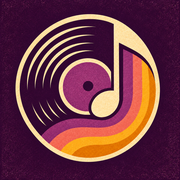
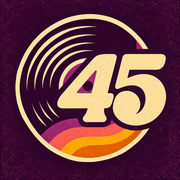
Add files via upload

diff --git a/app.js b/app.js
@@ -1,4 +1,4 @@
-// MyMusic Alpha 1.9.21 — pop-out fixes: reliable sizing while the window opens, and the player always returns to the page when the pop-out closes.
+// Hi-Fi45 Alpha 1.9.24 — Libraries: save several Drive folders, switch between them, share links (?lib=<folder id>).
 const CONFIG={CLIENT_ID:"249160747385-th1vq4sp43pjk40vle5jrnojd965morb.apps.googleusercontent.com",ROOT_FOLDER_ID:"1cdOpz-ziw1JcrtHaQupqnDMRZzviUiCJ"};
 const SUPPORTED=new Set(["mp3","wav","m4a","aac","flac","mp4"]);
 let pipWin=null,pipPlayer=null,pipModalHome=null,pipDesignH=768;
@@ -57,13 +57,85 @@ function showResumePrompt(trackId){pendingResumeTrackId=trackId;if($("resumeProm
 function hideResumePrompt(){pendingResumeTrackId=null;if($("resumePrompt"))$("resumePrompt").hidden=true}
 function showConnectScreen(message="Connect Google Drive to load your music"){const hasLib=tracks.length>0;$("welcome").hidden=hasLib;$("library").hidden=!hasLib;let a=false;try{a=localStorage.getItem("mymusic_drive_authorized")==="yes"}catch{}$("connectBtn").textContent=a?"Reconnect Drive":"Connect Drive";setStatus(message)}
 // ---- Auth: token persisted until expiry, library cached, one-tap reconnect ----
-const TOKEN_KEY="mymusic_token_v1",LIB_KEY="mymusic_library_v1",AUTH_KEY="mymusic_drive_authorized";
+// ---- Libraries: several Drive folders, each with its own cached song list ----
+const LIBS_KEY="hifi45_libraries_v1",CUR_LIB_KEY="hifi45_current_library";
+let libraries=[],currentLibId=null,sharedLibArrived=false;
+function saveLibraries(){try{localStorage.setItem(LIBS_KEY,JSON.stringify(libraries));localStorage.setItem(CUR_LIB_KEY,currentLibId||"")}catch{}}
+function curLib(){return libraries.find(l=>l.id===currentLibId)||libraries[0]}
+function ROOT(){return curLib().id}
+function isDefaultLib(){return ROOT()===CONFIG.ROOT_FOLDER_ID}
+function libCacheKey(id){return id===CONFIG.ROOT_FOLDER_ID?"mymusic_library_v1":"hifi45_library_"+id}
+function parseFolderId(text){const t=String(text||"").trim();let m=t.match(/\/folders\/([-\w]{10,})/)||t.match(/[?&](?:id|lib)=([-\w]{10,})/);if(m)return m[1];if(/^[-\w]{10,}$/.test(t))return t;return null}
+function shareUrl(id){return location.origin+location.pathname+"?lib="+encodeURIComponent(id)}
+(function loadLibraries(){
+  try{libraries=(JSON.parse(localStorage.getItem(LIBS_KEY)||"[]")||[]).filter(l=>l&&l.id)}catch{libraries=[]}
+  try{currentLibId=localStorage.getItem(CUR_LIB_KEY)||null}catch{}
+  const shared=parseFolderId(new URLSearchParams(location.search).get("lib"));
+  if(shared){if(!libraries.some(l=>l.id===shared))libraries.push({id:shared,name:"Shared library",addedAt:Date.now(),pending:true});currentLibId=shared;sharedLibArrived=true;
+    try{const u=new URL(location.href);u.searchParams.delete("lib");history.replaceState(null,"",u.pathname+u.search+u.hash)}catch{}}
+  if(!libraries.length)libraries.push({id:CONFIG.ROOT_FOLDER_ID,name:"MyMusic",addedAt:Date.now()});
+  if(!libraries.some(l=>l.id===currentLibId))currentLibId=libraries[0].id;
+  saveLibraries();
+})();
+currentFolderId=ROOT();folderStack=[{id:ROOT(),name:curLib().name}];
+async function driveGet(id){
+  const r=await fetch(`https://www.googleapis.com/drive/v3/files/${encodeURIComponent(id)}?fields=id,name,mimeType,shortcutDetails&supportsAllDrives=true`,{headers:{Authorization:`Bearer ${accessToken}`}});
+  if(r.status===401){authExpired();const e=new Error("Drive sign-in expired");e.status=401;throw e}
+  if(!r.ok){const e=new Error(r.status===404||r.status===403?"no-access":"Drive error "+r.status);e.status=r.status;throw e}
+  return r.json();
+}
+const NO_ACCESS_MSG=name=>`You don't have access to “${name}”. Ask the owner to share it with your Google account in Drive.`;
+function updateLibraryUI(){formatCounts();if(!$("libModal").hidden)renderLibraries()}
+function switchLibrary(id){
+  if(!libraries.some(l=>l.id===id))return;
+  currentLibId=id;saveLibraries();
+  tracks=[];folderStack=[{id:ROOT(),name:curLib().name}];currentFolderId=ROOT();currentFolderPath=[];allSongsMode=false;recentMode=false;
+  const had=loadLibrary(false);
+  updateLibraryUI();renderTracks();
+  if(!had){if(tokenValid())scanLibrary();else setStatus(`${curLib().name} · tap Reconnect Drive to load it`)}
+  else setStatus(`${curLib().name} · ${tracks.length} songs`);
+}
+function copyText(text,doc){
+  const w=(doc||document).defaultView||window;
+  try{if(w.navigator.clipboard&&w.isSecureContext){return w.navigator.clipboard.writeText(text).then(()=>true,()=>false)}}catch{}
+  try{const d=doc||document,ta=d.createElement("textarea");ta.value=text;ta.style.position="fixed";ta.style.opacity="0";d.body.appendChild(ta);ta.select();const ok=d.execCommand("copy");ta.remove();return Promise.resolve(ok)}catch{return Promise.resolve(false)}
+}
+function renderLibraries(){
+  const list=$("libList");
+  list.innerHTML=libraries.map(l=>{const cur=l.id===currentLibId;const n=typeof l.count==="number"?`${l.count} songs`:(l.pending?"Not loaded yet":"");
+    return `<div class="lib-row${cur?" current":""}" data-id="${esc(l.id)}"><button type="button" class="lib-pick" data-act="pick"><span class="lib-name">${esc(l.name)}</span><span class="lib-meta">${cur?"Playing from here":""}${cur&&n?" · ":""}${esc(n)}</span></button><button type="button" class="icon-btn lib-act" data-act="share" title="Copy share link" aria-label="Copy share link for ${esc(l.name)}">${'<svg viewBox="0 0 24 24" aria-hidden="true" fill="none" stroke="currentColor" stroke-width="2" stroke-linecap="round" stroke-linejoin="round"><path d="M10 14a4 4 0 0 0 5.7 0l3-3a4 4 0 0 0-5.7-5.7l-1 1"/><path d="M14 10a4 4 0 0 0-5.7 0l-3 3a4 4 0 0 0 5.7 5.7l1-1"/></svg>'}</button>${libraries.length>1?`<button type="button" class="icon-btn lib-act" data-act="remove" title="Remove from list" aria-label="Remove ${esc(l.name)}">${'<svg viewBox="0 0 24 24" aria-hidden="true" fill="none" stroke="currentColor" stroke-width="2.4" stroke-linecap="round"><path d="M6 6l12 12M18 6L6 18"/></svg>'}</button>`:""}</div>`}).join("");
+}
+function libMsg(t){const m=$("libMsg");if(m)m.textContent=t||""}
+function openLibraries(){$("libModal").hidden=false;document.body.classList.add("folder-modal-open");libMsg("");renderLibraries()}
+function closeLibraries(){$("libModal").hidden=true;document.body.classList.remove("folder-modal-open")}
+async function addLibrary(text){
+  const id=parseFolderId(text);
+  if(!id){libMsg("That doesn't look like a Google Drive folder link.");return}
+  if(libraries.some(l=>l.id===id)){switchLibrary(id);closeLibraries();return}
+  libMsg("Checking that folder…");
+  try{
+    const meta=await withToken(()=>driveGet(id));
+    const isFolder=meta.mimeType==="application/vnd.google-apps.folder"||(meta.shortcutDetails&&meta.shortcutDetails.targetMimeType==="application/vnd.google-apps.folder");
+    if(!isFolder){libMsg("That link points to a file, not a folder.");return}
+    const fid=meta.shortcutDetails?.targetId||id;
+    if(!libraries.some(l=>l.id===fid))libraries.push({id:fid,name:meta.name||"Library",addedAt:Date.now()});
+    saveLibraries();$("libAddInput").value="";switchLibrary(fid);closeLibraries();
+  }catch(e){libMsg(e.status===404||e.status===403?"You don't have access to that folder. Ask the owner to share it with your Google account.":"Couldn't add that folder: "+e.message)}
+}
+function removeLibrary(id){
+  if(libraries.length<2)return;
+  const l=libraries.find(x=>x.id===id);if(!l)return;
+  libraries=libraries.filter(x=>x.id!==id);try{localStorage.removeItem(libCacheKey(id))}catch{}
+  if(currentLibId===id)switchLibrary(libraries[0].id);else{saveLibraries();renderLibraries()}
+  libMsg(`Removed “${l.name}” from your list. Nothing in Drive was changed.`);
+}
+const TOKEN_KEY="mymusic_token_v1",AUTH_KEY="mymusic_drive_authorized";
 function tokenValid(){return !!accessToken&&Date.now()<tokenExpiresAt-60000}
 function saveToken(){try{localStorage.setItem(TOKEN_KEY,JSON.stringify({t:accessToken,e:tokenExpiresAt}))}catch{}}
 function loadToken(){try{const o=JSON.parse(localStorage.getItem(TOKEN_KEY)||"null");if(o&&o.t&&Date.now()<o.e-60000){accessToken=o.t;tokenExpiresAt=o.e;return true}}catch{}return false}
 function authExpired(msg){accessToken=null;tokenExpiresAt=0;try{localStorage.removeItem(TOKEN_KEY)}catch{}showConnectScreen(msg||"Drive sign-in expired · tap a track or Reconnect")}
-function saveLibrary(){try{localStorage.setItem(LIB_KEY,JSON.stringify({savedAt:Date.now(),tracks}))}catch(e){console.warn("Library cache not saved",e)}}
-function loadLibrary(){try{const o=JSON.parse(localStorage.getItem(LIB_KEY)||"null");if(o&&Array.isArray(o.tracks)&&o.tracks.length){tracks=o.tracks;queue=[...tracks];return true}}catch{}return false}
+function saveLibrary(){try{localStorage.setItem(libCacheKey(ROOT()),JSON.stringify({savedAt:Date.now(),tracks}))}catch(e){console.warn("Library cache not saved",e)}const l=curLib();if(l){l.count=tracks.length;saveLibraries()}}
+function loadLibrary(setQueue=true){try{const o=JSON.parse(localStorage.getItem(libCacheKey(ROOT()))||"null");if(o&&Array.isArray(o.tracks)&&o.tracks.length){tracks=o.tracks;if(setQueue)queue=[...tracks];const l=curLib();if(l&&l.count!==tracks.length){l.count=tracks.length;saveLibraries()}return true}}catch{}return false}
 function showConnected(){$("welcome").hidden=true;$("library").hidden=false;$("connectBtn").textContent="Connected";hideResumePrompt()}
 function requestToken(forceConsent){if(!tokenClient){alert("Google sign-in is still loading. Try again shortly.");return}if(authPending)return;authPending=true;tokenClient.requestAccessToken({prompt:forceConsent?"consent":""})}
 function withToken(fn){
@@ -174,16 +246,16 @@ async function prefetchNextTrack(){
 }
 
 async function driveList(parentId){let pageToken=null,all=[];do{const p=new URLSearchParams({q:`'${parentId}' in parents and trashed=false`,pageSize:"1000",orderBy:"name",fields:"nextPageToken,files(id,name,mimeType,size,modifiedTime,parents,shortcutDetails)"});if(pageToken)p.set("pageToken",pageToken);const res=await fetch(`https://www.googleapis.com/drive/v3/files?${p}`,{headers:{Authorization:`Bearer ${accessToken}`}});if(res.status===401){authExpired();throw new Error("Drive authorization expired ("+res.status+"). Please reconnect.")}if(!res.ok)throw new Error(`Drive API ${res.status}: ${await res.text()}`);const data=await res.json();all.push(...(data.files||[]));pageToken=data.nextPageToken}while(pageToken);return all}
-function trackInfo(t){const p=t.path||[],artist=p[0]||"Unknown Artist",release=p.length>1?p[p.length-1]:"Unsorted";return{artist,release,title:t.name.replace(/\.[^.]+$/,"" ).replace(/^\d+[\s._-]+/,""),subtitle:`${artist} · ${release}`}}
+function trackInfo(t){const p=t.path||[];let artist=p[0]||"Unknown Artist",release=p.length>1?p[p.length-1]:"Unsorted";if(!isDefaultLib()){const ln=curLib().name;if(p.length<2){artist=ln;release=p[0]||ln}}return{artist,release,title:t.name.replace(/\.[^.]+$/,"" ).replace(/^\d+[\s._-]+/,""),subtitle:`${artist} · ${release}`}}
 async function walkFolder(id,path=[],seen=new Set()){if(seen.has(id))return[];seen.add(id);const items=await driveList(id),out=[];for(const f of items){if(f.mimeType==="application/vnd.google-apps.folder")out.push(...await walkFolder(f.id,[...path,f.name],seen));else if(f.mimeType==="application/vnd.google-apps.shortcut"&&f.shortcutDetails?.targetMimeType==="application/vnd.google-apps.folder")out.push(...await walkFolder(f.shortcutDetails.targetId,[...path,f.name],seen));else if(SUPPORTED.has(extOf(f.name)))out.push({...f,path,parentId:id,extension:extOf(f.name)})}return out}
-function formatCounts(){$("counts").textContent=tracks.length?`${tracks.length} audio files found`:"No supported audio files found. Add MP3, WAV, M4A, AAC, FLAC or MP4 files inside MyMusic, then Refresh."}
+function formatCounts(){const n=curLib()?.name||"Library";$("counts").textContent=tracks.length?`${n} · ${tracks.length} audio files found`:`${n} · no songs loaded yet. Supported: MP3, WAV, M4A, AAC, FLAC, MP4.`}
 function renderBreadcrumbs(){const atRoot=folderStack.length<2;$("breadcrumbs").innerHTML=`<button type="button" class="crumb-back" aria-label="Back to the previous folder"${atRoot?" disabled":""}><svg viewBox="0 0 24 24" aria-hidden="true" fill="none" stroke="currentColor" stroke-width="2.4" stroke-linecap="round" stroke-linejoin="round"><path d="M15 5l-7 7 7 7"/></svg></button>`+folderStack.map((f,i)=>`${i?'<span class="crumb-sep">›</span>':''}<button type="button" data-depth="${i}">${esc(f.name)}</button>`).join("");$("breadcrumbs").querySelectorAll("button[data-depth]").forEach(b=>b.onclick=()=>navigateTo(Number(b.dataset.depth)));const back=$("breadcrumbs").querySelector(".crumb-back");if(back&&!atRoot)back.onclick=()=>navigateTo(folderStack.length-2)}
 const PICKER_TITLES={folders:"Browse folders",all:"All songs",recent:"Recent songs"};
 function openPicker(mode="folders"){
   pickerMode=mode;
   $("folderModal").hidden=false;$("folderModal").ownerDocument.body.classList.add("folder-modal-open");
   $("folderModalTitle").textContent=PICKER_TITLES[mode]||"Browse folders";
-  $("breadcrumbs").hidden=mode!=="folders";
+  $("breadcrumbs").hidden=mode!=="folders";if($("folderShareBtn"))$("folderShareBtn").hidden=mode!=="folders";
   $("pickerSearch").hidden=mode==="folders";$("pickerSearch").value="";
   ["folderToggle","allSongsBtn","recentBtn"].forEach((id,k)=>{const b=$(id);if(b)b.setAttribute("aria-expanded",String(["folders","all","recent"][k]===mode))});
   if(mode==="folders")renderFolderContents();else renderPickerList();
@@ -207,14 +279,26 @@ async function navigateTo(depth){allSongsMode=false;recentMode=false;folderStack
 async function enterFolder(f){allSongsMode=false;recentMode=false;folderStack.push({id:f.id,name:f.name});currentFolderId=f.id;currentFolderPath=folderStack.slice(1).map(x=>x.name);await renderFolderContents();renderTracks()}
 function renderFolderContents(){renderBreadcrumbs();$("folderList").innerHTML='<div class="folder-empty">Loading folder…</div>';return withToken(_renderFolderContents).catch(e=>{$("folderList").innerHTML=`<div class="folder-empty">${esc(e.message)} · tap Reconnect Drive</div>`})}
 async function _renderFolderContents(){$("folderList").innerHTML='<div class="folder-empty">Loading folder…</div>';try{const items=await driveList(currentFolderId);const dirs=items.filter(f=>f.mimeType==="application/vnd.google-apps.folder"||(f.mimeType==="application/vnd.google-apps.shortcut"&&f.shortcutDetails?.targetMimeType==="application/vnd.google-apps.folder")).sort((a,b)=>a.name.localeCompare(b.name));const local=items.filter(f=>SUPPORTED.has(extOf(f.name))).map(f=>({...f,path:currentFolderPath,parentId:currentFolderId,extension:extOf(f.name)})).sort((a,b)=>a.name.localeCompare(b.name));const rows=dirs.map(f=>`<button type="button" class="folder-row" data-id="${esc(f.mimeType==="application/vnd.google-apps.shortcut"?f.shortcutDetails.targetId:f.id)}" data-name="${esc(f.name)}"><span class="folder-icon">📁</span><span class="folder-label">${esc(f.name)}</span><span class="folder-count">Open ›</span></button>`).join("");$("folderList").innerHTML=(rows||'')+(local.length?`<div class="folder-section-label">TRACKS IN THIS FOLDER</div>`+local.map(t=>`<button type="button" class="folder-track${queue[currentIndex]?.id===t.id?" current":""}" data-id="${esc(t.id)}"><span>♫</span><span>${esc(trackInfo(t).title)}</span><span>▶</span></button>`).join(""):'')||'<div class="folder-empty">This folder is empty.</div>';$("folderList").querySelectorAll(".folder-row").forEach(b=>b.onclick=()=>enterFolder({id:b.dataset.id,name:b.dataset.name}));$("folderList").querySelectorAll(".folder-track").forEach(b=>b.onclick=()=>{setQueueForFolder(local);playTrackById(b.dataset.id);closeFolderModal()});if($("folderSummary"))$("folderSummary").textContent=`${dirs.length} folders · ${local.length} tracks`}catch(e){console.error(e);$("folderList").innerHTML=`<div class="folder-empty">${esc(e.message)}</div>`}}
-$("folderClose").onclick=closeFolderModal;$("folderModal").addEventListener("click",e=>{if(e.target.closest("[data-close-folder]"))closeFolderModal()});function onKey(e){if(e.key==="Escape"){if(!$("folderModal").hidden)closeFolderModal();else if(!pipWin&&document.body.classList.contains("player-expanded"))togglePlayerExpand(false)}}document.addEventListener("keydown",onKey);
+$("folderClose").onclick=closeFolderModal;$("folderModal").addEventListener("click",e=>{if(e.target.closest("[data-close-folder]"))closeFolderModal()});function onKey(e){if(e.key==="Escape"){if($("libModal")&&!$("libModal").hidden){closeLibraries();return}if(!$("folderModal").hidden)closeFolderModal();else if(!pipWin&&document.body.classList.contains("player-expanded"))togglePlayerExpand(false)}}document.addEventListener("keydown",onKey);
 function setQueueForFolder(list){queue=[...list].sort((a,b)=>a.name.localeCompare(b.name));currentIndex=-1;prefetchedNextId=null;prefetchedBlob=null}
 function renderTracks(){updatePeek();markPickerCurrent()}
-async function scanLibrary(){if(!accessToken||scanBusy)return;scanBusy=true;setStatus("Scanning Drive…");$("refreshBtn").disabled=true;try{tracks=await walkFolder(CONFIG.ROOT_FOLDER_ID);tracks.sort((a,b)=>a.path.join("/").localeCompare(b.path.join("/"))||a.name.localeCompare(b.name));queue=[...tracks];currentIndex=-1;folderStack=[{id:CONFIG.ROOT_FOLDER_ID,name:"MyMusic"}];currentFolderId=CONFIG.ROOT_FOLDER_ID;currentFolderPath=[];allSongsMode=false;recentMode=false;saveLibrary();formatCounts();renderTracks();setStatus(`Library scan complete · ${tracks.length} tracks`);if(!$("folderModal").hidden){if(pickerMode==="folders")renderFolderContents();else renderPickerList()}}catch(e){console.error(e);setStatus("Drive connection needs attention");if(tokenValid())alert("Couldn't scan MyMusic.\n\n"+e.message)}finally{scanBusy=false;$("refreshBtn").disabled=false}}
+async function scanLibrary(){if(!accessToken||scanBusy)return;scanBusy=true;setStatus("Scanning Drive…");$("refreshBtn").disabled=true;const lib=curLib();try{try{const meta=await driveGet(ROOT());if(meta&&meta.name&&(lib.name!==meta.name||lib.pending)){lib.name=meta.name;lib.pending=false;saveLibraries()}}catch(err){if(err.status===404||err.status===403){const e2=new Error(NO_ACCESS_MSG(lib.name));e2.noAccess=true;throw e2}throw err}tracks=await walkFolder(ROOT());tracks.sort((a,b)=>a.path.join("/").localeCompare(b.path.join("/"))||a.name.localeCompare(b.name));queue=[...tracks];currentIndex=-1;folderStack=[{id:ROOT(),name:lib.name}];currentFolderId=ROOT();currentFolderPath=[];allSongsMode=false;recentMode=false;saveLibrary();updateLibraryUI();formatCounts();renderTracks();setStatus(`Library scan complete · ${tracks.length} tracks`);if(!$("folderModal").hidden){if(pickerMode==="folders")renderFolderContents();else renderPickerList()}}catch(e){console.error(e);if(e.noAccess){tracks=[];formatCounts();setStatus(e.message)}else{setStatus("Drive connection needs attention");if(tokenValid())alert("Couldn't scan this library.\n\n"+e.message)}}finally{scanBusy=false;$("refreshBtn").disabled=false}}
 function showAllSongs(){openPicker("all")}
 $("pickerSearch").addEventListener("input",()=>{if(pickerMode!=="folders")renderPickerList()});
 
 function onDocClick(event){
+  const libB=event.target.closest("#librariesBtn");
+  if(libB){event.preventDefault();openLibraries();return}
+  if(event.target.closest("#libClose,[data-close-lib]")){event.preventDefault();closeLibraries();return}
+  const la=event.target.closest("#libList [data-act]");
+  if(la){event.preventDefault();const id=la.closest(".lib-row").dataset.id,act=la.dataset.act;
+    if(act==="pick"){if(id!==currentLibId)switchLibrary(id);closeLibraries()}
+    else if(act==="remove")removeLibrary(id);
+    else if(act==="share"){const l=libraries.find(x=>x.id===id),u=shareUrl(id);copyText(u).then(ok=>libMsg(ok?`Link to “${l.name}” copied.`:`Copy this link: ${u}`))}
+    return}
+  const fs=event.target.closest("#folderShareBtn");
+  if(fs){event.preventDefault();const f=folderStack[folderStack.length-1],u=shareUrl(f.id),lbl=fs.querySelector("span");
+    copyText(u,fs.ownerDocument).then(ok=>{if(lbl){lbl.textContent=ok?"Copied":"Copy failed";setTimeout(()=>lbl.textContent="Share",1800)}if(!ok)setStatus("Share link: "+u)});return}
   const pop=event.target.closest("#popoutBtn");
   if(pop){event.preventDefault();openPopout();return}
   const ret=event.target.closest("#pipReturnBtn");
@@ -251,6 +335,7 @@ function onDocClick(event){
   }
 }
 document.addEventListener("click",onDocClick);
+$("libAddForm").addEventListener("submit",e=>{e.preventDefault();addLibrary($("libAddInput").value)});
 // ---- Pop-out player (Document Picture-in-Picture) ----
 const PIP_OK="documentPictureInPicture" in window;
 if(PIP_OK&&$("popoutBtn"))$("popoutBtn").hidden=false;
@@ -268,7 +353,7 @@ async function openPopout(){
   // styles + fonts
   document.querySelectorAll('link[rel="stylesheet"],style').forEach(n=>{const c=n.cloneNode(true);if(c.tagName==="LINK")c.href=n.href;d.head.appendChild(c)});
   const meta=d.createElement("meta");meta.name="viewport";meta.content="width=device-width,initial-scale=1";d.head.appendChild(meta);
-  d.title="MyMusic";
+  d.title="Hi-Fi45";
   d.body.className="player-expanded in-pip";
   // shared SVG defs (soft ink filter for the button icons)
   const defs=document.querySelector("#ink")?.closest("svg");if(defs)d.body.appendChild(defs.cloneNode(true));
@@ -316,7 +401,7 @@ function restorePlayer(reExpand){
 }
 function closePopout(){const w=pipWin;if(!w)return;restorePlayer(false);try{w.close()}catch{}}
 
-window.MyMusicApp=Object.freeze({
+window.HiFi45App=window.Drive45App=window.MyMusicApp=Object.freeze({
   openFolderModal,
   openPicker,
   closeFolderModal,
@@ -340,7 +425,10 @@ window.MyMusicApp=Object.freeze({
   })
 });
 async function downloadFile(id){const r=await fetch(`https://www.googleapis.com/drive/v3/files/${encodeURIComponent(id)}?alt=media`,{headers:{Authorization:`Bearer ${accessToken}`}});if(r.status===401){authExpired();throw new Error("Drive authorization expired. Please reconnect.")}if(!r.ok)throw new Error(`Couldn't download file (${r.status})`);return r.blob()}
-async function loadArtwork(track){if(currentArtUrl){URL.revokeObjectURL(currentArtUrl);currentArtUrl=null}$("artwork").hidden=true;$("artPlaceholder").hidden=false;const files=await driveList(track.parentId);const art=files.find(f=>/\.(jpe?g|png|webp)$/i.test(f.name));if(art){const blob=await downloadFile(art.id);currentArtUrl=URL.createObjectURL(blob);$("artwork").src=currentArtUrl;$("artwork").hidden=false;$("artPlaceholder").hidden=true}}
+// Cover art: keep the current picture until the next one is ready (no flash of the default art between songs).
+let currentArtId=null,artJob=0;
+function showNoArt(){if(currentArtUrl){URL.revokeObjectURL(currentArtUrl);currentArtUrl=null}currentArtId=null;$("artwork").hidden=true;$("artPlaceholder").hidden=false}
+async function loadArtwork(track){const job=++artJob;const files=await driveList(track.parentId);if(job!==artJob)return;const art=files.find(f=>/\.(jpe?g|png|webp)$/i.test(f.name));if(!art){showNoArt();return}if(art.id===currentArtId&&currentArtUrl)return;const blob=await downloadFile(art.id);if(job!==artJob)return;const old=currentArtUrl;currentArtUrl=URL.createObjectURL(blob);currentArtId=art.id;$("artwork").src=currentArtUrl;$("artwork").hidden=false;$("artPlaceholder").hidden=true;if(old)setTimeout(()=>URL.revokeObjectURL(old),1500)}
 function playTrackById(id,fromAutoplay=false,opts={}){
   if(fromAutoplay&&!tokenValid()){
     const idx=queue.findIndex(t=>t.id===id);

diff --git a/index.html b/index.html
@@ -5,12 +5,12 @@
 <link rel="icon" type="image/png" href="./logo-192.png"><link rel="apple-touch-icon" href="./apple-touch-icon.png">
 <link rel="preconnect" href="https://fonts.googleapis.com"><link rel="preconnect" href="https://fonts.gstatic.com" crossorigin>
 <link href="https://fonts.googleapis.com/css2?family=Plus+Jakarta+Sans:wght@500;600;700;800&family=Space+Grotesk:wght@300;400;700&display=swap" rel="stylesheet">
-<link rel="manifest" href="./manifest.webmanifest"><link rel="stylesheet" href="./styles.css?v=1.9.21"><title>MyMusic</title>
+<link rel="manifest" href="./manifest.webmanifest"><link rel="stylesheet" href="./styles.css?v=1.9.24"><title>Hi-Fi45</title><meta name="application-name" content="Hi-Fi45"><meta name="apple-mobile-web-app-title" content="Hi-Fi45">
 </head><body>
 <header>
   <div class="brand">
-    <img src="./logo-192.png" alt="MyMusic logo" class="brand-logo">
-    <div><strong>MyMusic</strong><small>YOUR PERSONAL MUSIC LIBRARY</small></div>
+    <img src="./logo-192.png" alt="Hi-Fi45 logo" class="brand-logo">
+    <div><strong>Hi-Fi45</strong><small>YOUR MUSIC.<span class="tag-break"> </span>YOUR GROOVE.</small></div>
   </div>
   <button id="connectBtn" class="outline">Connect Drive</button>
 </header>
@@ -19,14 +19,14 @@
   <div class="funk-ribbon" aria-hidden="true"><span></span><span></span><span></span><span></span></div>
   <p class="eyebrow">YOUR MUSIC. YOUR DRIVE.</p>
   <h1>Everything<br>you've made.</h1>
-  <p>Connect Google Drive to scan your private MyMusic folder and build your personal listening library.</p>
+  <p>Your music. Your groove. Connect Google Drive to scan your music folder and build your listening library.</p>
   <button id="welcomeConnectBtn">Connect Google Drive</button>
   <p class="fine">Read-only access. Your music stays in your Drive.</p>
 </section>
 <section id="library" hidden>
   <div class="heading">
     <div><p class="eyebrow">THE COLLECTION</p><h1>Your library</h1></div>
-    <button id="refreshBtn" class="outline">↻ Refresh</button>
+    <div class="heading-actions"><button type="button" id="librariesBtn" class="outline" aria-haspopup="dialog">Libraries</button><button type="button" id="refreshBtn" class="icon-btn refresh-btn" aria-label="Rescan this library" title="Rescan this library"><svg viewBox="0 0 24 24" aria-hidden="true" fill="none" stroke="currentColor" stroke-width="2.2" stroke-linecap="round" stroke-linejoin="round"><path d="M20 11a8 8 0 1 0-2.3 6.2"/><path d="M20 4v7h-7"/></svg></button></div>
   </div>
   <div id="status" class="status">Ready</div>
   <div id="counts" class="counts"></div>
@@ -46,11 +46,28 @@
   <section class="folder-dialog" role="dialog" aria-modal="true" aria-labelledby="folderModalTitle">
     <div class="folder-dialog-header">
       <div><p class="eyebrow">YOUR COLLECTION</p><h2 id="folderModalTitle">Browse folders</h2></div>
+      <button type="button" id="folderShareBtn" class="outline small-btn share-btn" title="Copy a link that opens this folder in Hi-Fi45"><svg viewBox="0 0 24 24" aria-hidden="true" fill="none" stroke="currentColor" stroke-width="2" stroke-linecap="round" stroke-linejoin="round"><path d="M10 14a4 4 0 0 0 5.7 0l3-3a4 4 0 0 0-5.7-5.7l-1 1"/><path d="M14 10a4 4 0 0 0-5.7 0l-3 3a4 4 0 0 0 5.7 5.7l1-1"/></svg><span>Share</span></button>
       <button type="button" id="folderClose" class="folder-close" aria-label="Close"><svg viewBox="0 0 24 24" aria-hidden="true" fill="none" stroke="currentColor" stroke-width="2.4" stroke-linecap="round"><path d="M6 6l12 12M18 6L6 18"/></svg></button>
     </div>
     <div id="breadcrumbs" class="breadcrumbs"></div>
     <input id="pickerSearch" class="search picker-search" type="search" placeholder="Search songs" hidden>
     <div id="folderList" class="folder-list"></div>
+  </section>
+</div>
+<div id="libModal" class="folder-modal lib-modal" hidden>
+  <div class="folder-modal-backdrop" data-close-lib></div>
+  <section class="folder-dialog lib-dialog" role="dialog" aria-modal="true" aria-labelledby="libTitle">
+    <div class="folder-dialog-header">
+      <div><p class="eyebrow">YOUR COLLECTIONS</p><h2 id="libTitle">Libraries</h2></div>
+      <button type="button" id="libClose" class="folder-close" aria-label="Close"><svg viewBox="0 0 24 24" aria-hidden="true" fill="none" stroke="currentColor" stroke-width="2.4" stroke-linecap="round"><path d="M6 6l12 12M18 6L6 18"/></svg></button>
+    </div>
+    <div id="libList" class="lib-list"></div>
+    <form id="libAddForm" class="lib-add" autocomplete="off">
+      <input id="libAddInput" class="search" type="text" inputmode="url" placeholder="Paste a Google Drive folder link">
+      <button type="submit" class="small-btn lib-add-btn">Add</button>
+    </form>
+    <div id="libMsg" class="lib-msg" role="status"></div>
+    <p class="lib-hint">Share any folder from Browse folders. Whoever opens the link signs in with their own Google account and only sees folders that have been shared with them in Drive.</p>
   </section>
 </div>
 <div id="pipPlaceholder" class="pip-placeholder panel" hidden><div class="pip-ph-text"><strong>Playing in the pop-out window</strong><span>Close the pop-out, or bring it back here.</span></div><button type="button" id="pipReturnBtn" class="outline small-btn">Bring player back</button></div>
@@ -68,7 +85,7 @@
   <div class="now">
     <div class="art-stage">
       <div class="art-frame">
-        <div id="artPlaceholder" class="art-placeholder"><img src="./logo-512.png" alt="MyMusic vinyl emblem" class="placeholder-emblem"></div>
+        <div id="artPlaceholder" class="art-placeholder"><img src="./no-art.jpg" alt="" class="placeholder-emblem"></div>
         <img id="artwork" class="artwork" alt="Album artwork" hidden>
         <img src="./vinyl-overlay.jpg" alt="" class="vinyl-overlay" aria-hidden="true">
       </div>
@@ -110,15 +127,15 @@
         <img src="./vu-meter.png" alt="" class="vu-face" draggable="false">
         <svg class="vu-needle" viewBox="0 0 870 471" preserveAspectRatio="none"><defs><clipPath id="vuClip"><rect x="70" y="74" width="722" height="322" rx="4"/></clipPath></defs><g clip-path="url(#vuClip)"><line id="vuNeedleShadow" x1="412" y1="445" x2="412" y2="148" stroke="rgba(60,20,0,.28)" stroke-width="5" stroke-linecap="round"/><line id="vuNeedleLine" x1="408" y1="445" x2="408" y2="148" stroke="#20130c" stroke-width="3.6" stroke-linecap="round"/></g></svg>
       </div>
-      <span class="version">ALPHA 1.9.21</span>
+      <span class="version">ALPHA 1.9.24</span>
       </div>
     </div>
     <div class="player-footer">
-      <span id="queueLabel" hidden>MY MUSIC</span>
+      <span id="queueLabel" hidden>HI-FI45</span>
     </div>
   </div>
 </section>
-<audio id="audio" preload="metadata"></audio><script src="https://accounts.google.com/gsi/client" async defer></script><script src="./app.js?v=1.9.21"></script>
+<audio id="audio" preload="metadata"></audio><script src="https://accounts.google.com/gsi/client" async defer></script><script src="./app.js?v=1.9.24"></script>
 <div class="hw-preload" aria-hidden="true"></div>
 <svg width="0" height="0" style="position:absolute" aria-hidden="true"><defs><filter id="ink" x="-20%" y="-20%" width="140%" height="140%"><feGaussianBlur in="SourceGraphic" stdDeviation=".28" result="b"/><feMerge><feMergeNode in="b"/><feMergeNode in="SourceGraphic"/></feMerge></filter></defs></svg>
 </body></html>

diff --git a/styles.css b/styles.css
@@ -1088,3 +1088,33 @@ body.in-pip .player{padding-bottom:40px}
   body.player-expanded:not(.in-pip) .player-top-bar{grid-area:top}
 }
 body.in-pip{align-items:safe center;justify-content:safe center}
+@media (max-width:600px){.tag-break{display:block;height:0;overflow:hidden}}
+
+/* 1.9.23 · no-art artwork fills the art area everywhere */
+.art-placeholder,body.player-expanded .art-placeholder{padding:0;background:#2c0b2b}
+.placeholder-emblem,body.player-expanded .placeholder-emblem{width:100%;height:100%;object-fit:cover;border-radius:0;box-shadow:none;transform:none}
+
+/* ================= Alpha 1.9.24 · Libraries ================= */
+.heading-actions{display:flex;align-items:center;gap:8px;flex:none}
+.heading-actions .refresh-btn{width:44px;height:44px;position:relative}
+.heading-actions .refresh-btn svg{width:18px;height:18px}
+.heading-actions .refresh-btn:disabled{opacity:.45}
+.share-btn{display:inline-flex;align-items:center;gap:6px;margin-left:auto;margin-right:10px;min-height:36px;padding:6px 12px}
+.share-btn svg{width:15px;height:15px;flex:none}
+.share-btn[hidden]{display:none}
+.lib-dialog{height:auto;max-height:min(720px,88dvh)}
+.lib-list{display:flex;flex-direction:column;gap:8px;overflow:auto;min-height:0;margin:4px 0 14px}
+.lib-row{display:flex;align-items:center;gap:8px;padding:6px 8px 6px 6px;border-radius:14px;border:1px solid rgba(243,224,181,.14);background:#1d0d1f}
+.lib-row.current{border-color:var(--gold);background:linear-gradient(90deg, rgba(141,55,120,.34) 0%, #261328 100%)}
+.lib-pick{flex:1;min-width:0;display:flex;flex-direction:column;align-items:flex-start;gap:2px;padding:8px 10px;border:0;background:transparent;box-shadow:none;color:var(--cream);text-align:left}
+.lib-pick:hover{transform:none;filter:none;background:transparent}
+.lib-name{font-weight:800;font-size:15px;max-width:100%;overflow:hidden;text-overflow:ellipsis;white-space:nowrap}
+.lib-meta{font-size:11.5px;color:var(--muted)}
+.lib-act{width:36px;height:36px;flex:none}
+.lib-act svg{width:15px;height:15px}
+.lib-add{display:flex;gap:8px;align-items:center}
+.lib-add .search{flex:1;margin:0;min-width:0}
+.lib-add-btn{flex:none;min-height:44px;padding:8px 18px}
+.lib-msg{min-height:18px;margin:10px 2px 0;font-size:12.5px;color:var(--gold);word-break:break-all}
+.lib-hint{margin:10px 2px 0;font-size:12px;line-height:1.45;color:var(--muted)}
+@media (max-width:420px){.heading-actions .outline{padding:8px 14px}}

diff --git a/sw.js b/sw.js
@@ -1,5 +1,5 @@
-const CACHE="mymusic-shell-v1-9-21";
-const FILES=["./","./index.html","./styles.css?v=1.9.21","./app.js?v=1.9.21","./manifest.webmanifest","./logo-192.png","./logo-512.png","./apple-touch-icon.png","./vinyl-overlay.jpg","./btn-off.webp","./btn-on.webp","./btn-press-off.webp","./btn-press-on.webp","./knob.png","./vu-meter.png"];
+const CACHE="mymusic-shell-v1-9-24";
+const FILES=["./","./index.html","./styles.css?v=1.9.24","./app.js?v=1.9.24","./manifest.webmanifest","./logo-192.png","./logo-512.png","./apple-touch-icon.png","./vinyl-overlay.jpg","./no-art.jpg","./btn-off.webp","./btn-on.webp","./btn-press-off.webp","./btn-press-on.webp","./knob.png","./vu-meter.png"];
 self.addEventListener("install",event=>{
   event.waitUntil(caches.open(CACHE).then(cache=>cache.addAll(FILES)).then(()=>self.skipWaiting()));
 });

diff --git a/CHANGELOG.md b/CHANGELOG.md
@@ -1,3 +1,27 @@
+## Alpha 1.9.24
+- Libraries: a new Libraries button (next to the round Rescan button) lists every Drive folder you've added. Tap one to switch; each library keeps its own saved song list, so switching back is instant.
+- Add a library by pasting a Google Drive folder link (or folder ID). The app checks you can open it and uses the folder's real name.
+- Share: Browse folders has a Share button that copies a link to the folder you're in (…/mymusic/?lib=<folder id>). Opening that link adds the folder to the person's Libraries and opens it; the ?lib= part is then removed from the address bar.
+- No access: if a library hasn't been shared with the signed-in Google account, the app says so in plain words instead of showing an error.
+- Remove a library from the list with ×. This only removes it from Hi-Fi45; nothing in Drive changes.
+- Songs in a library that starts below your top-level folder show the library name as the artist (e.g. "Sugar Business · James").
+- Your existing MyMusic library, history and settings carry over unchanged.
+- Bumped service-worker cache to mymusic-shell-v1-9-24.
+
+## Alpha 1.9.23
+- Renamed the app to Hi-Fi45 (tagline unchanged: "Your music. Your groove.").
+- New app icon (the "45" record) for the header, browser tab, home-screen icon and installed app.
+- New artwork for songs without cover art (no-art.jpg), shown full-bleed everywhere.
+- Fixed: cover art flashed the default picture for a moment when the song changed. The current art now stays until the next one is ready, and isn't reloaded at all when the next song uses the same image.
+- Bumped service-worker cache to mymusic-shell-v1-9-23.
+
+## Alpha 1.9.22
+- Renamed the app to Drive45, tagline "Your music. Your groove." (page title, header, welcome text, home-screen app name, pop-out window title). Visuals unchanged.
+- The breadcrumb root still says "MyMusic" because that's the name of the Drive folder itself.
+- Saved settings (sign-in, library cache, history, Level, volume, pop-out size) keep their existing storage keys, so nothing resets.
+- Console helper is now Drive45App (MyMusicApp still works).
+- Bumped service-worker cache to mymusic-shell-v1-9-22.
+
 ## Alpha 1.9.21
 - Fixed: closing the pop-out could leave the main page empty. Bringing the player back now runs exactly once, moves the player first, and guards every step, so one failure can't stop the rest. A backup check also restores the player if Chrome doesn't report the window closing.
 - Fixed: the pop-out could open shrunk to 40% and stuck at the top. Chrome can report a zero window size for a moment while the pop-out opens; the layout now waits for a real size and refits several times during the first second.

diff --git a/SETUP.md b/SETUP.md
@@ -86,3 +86,18 @@ Replace all files. From now on, every release bumps the ?v= number on styles.css
 
 ### Alpha 1.9.21
 Replace all files. Confirm ALPHA 1.9.21.
+
+
+### Alpha 1.9.22
+Replace all files. Confirm the header says Drive45 and ALPHA 1.9.22. If you've added the app to your iPhone home screen, remove and re-add it to pick up the new name.
+
+
+### Alpha 1.9.23
+Replace all files (new: no-art.jpg; updated: logo-192.png, logo-512.png, apple-touch-icon.png). Confirm Hi-Fi45 and ALPHA 1.9.23. Re-add the app to your iPhone home screen to get the new icon and name.
+
+
+### Alpha 1.9.24 — sharing a library with bandmates
+1. In Google Drive, share the folder (e.g. Sugar Business) with each bandmate's Google account as Viewer (or Editor).
+2. In Google Cloud Console → Google Auth Platform (APIs & Services → OAuth consent screen) → Audience → Test users → Add users: add each bandmate's Gmail address. (Testing mode allows up to 100.)
+3. In Hi-Fi45, open Browse folders, go into the folder, tap Share, and send them the copied link.
+4. They open the link, tap Connect Drive, sign in, and accept Google's "unverified app" notice and the read-only Drive permission. About once a week Google asks them to approve again.
